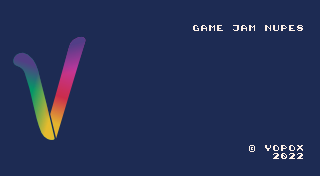
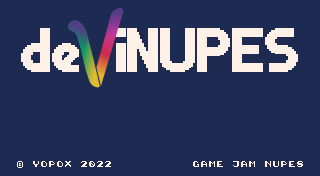
New title screen

diff --git a/core/src/main/java/com/yopox/screens/TitleScreen.java b/core/src/main/java/com/yopox/screens/TitleScreen.java
@@ -14,8 +14,8 @@ public class TitleScreen extends AbstractScreen {
     private static final Texture background = new Texture("title.png");
 
     private Vector<Letter> option1 = Letter.listOf("Partie classique", Colors.DEFAULT_FG, Colors.DEFAULT_BG);
-    private Vector<Letter> option2 = Letter.listOf("Contre la montre (5 min)", Colors.DEFAULT_FG, Colors.DEFAULT_BG);
-    private Vector<Letter> option3 = Letter.listOf("Contre la montre (1 min)", Colors.DEFAULT_FG, Colors.DEFAULT_BG);
+    private Vector<Letter> option2 = Letter.listOf("5 minutes chrono", Colors.DEFAULT_FG, Colors.DEFAULT_BG);
+    private Vector<Letter> option3 = Letter.listOf("1 minute  chrono", Colors.DEFAULT_FG, Colors.DEFAULT_BG);
 
     private Vector<Letter> arrow = Letter.listOf(">", Colors.DEFAULT_FG, Colors.DEFAULT_BG);
     private final int N_OPTIONS = 3;
@@ -30,10 +30,10 @@ public class TitleScreen extends AbstractScreen {
         super.render(delta);
         myBatch.begin();
         myBatch.draw(background, 0f, 0f);
-        Text.draw(option1, Util.TILE * 14, Util.TILE * 12, false, myBatch);
-        Text.draw(option2, Util.TILE * 14, Util.TILE * 10, false, myBatch);
-        Text.draw(option3, Util.TILE * 14, Util.TILE * 8, false, myBatch);
-        Text.draw(arrow, Util.TILE * 12, Util.TILE * 12 - selected * 2 * Util.TILE, false, myBatch);
+        Text.draw(option1, Util.TILE * 12, Util.TILE * 8, false, myBatch);
+        Text.draw(option2, Util.TILE * 12, Util.TILE * 6, false, myBatch);
+        Text.draw(option3, Util.TILE * 12, Util.TILE * 4, false, myBatch);
+        Text.draw(arrow, Util.TILE * 9, Util.TILE * 8 - selected * 2 * Util.TILE, false, myBatch);
         myBatch.end();
     }
 

diff --git a/core/src/main/java/com/yopox/ui/GUI.java b/core/src/main/java/com/yopox/ui/GUI.java
@@ -5,7 +5,9 @@ import com.badlogic.gdx.graphics.g2d.SpriteBatch;
 import com.yopox.Util;
 
 import java.util.Date;
+import java.util.Optional;
 import java.util.Vector;
+import java.util.stream.Stream;
 
 public class GUI {
     private static Vector<Letter> alphabet = Letter.listOf("abcdefghijklmnopqrstuvwxyz", Colors.WHITE, Colors.BLUE);
@@ -22,12 +24,16 @@ public class GUI {
     }
 
     public static void update(char c, Color color) {
-        if (c >= 'a' && c <= 'z') {
-            final Letter letter = alphabet.stream().filter(l -> l.getCharacter() == c).findFirst().get();
-            if (color != Colors.ORANGE || letter.getFg() != Colors.GREEN) letter.setFg(color);
-        } else if (c >= '0' && c <= '9') {
-            final Letter letter = numbers.stream().filter(l -> l.getCharacter() == c).findFirst().get();
-            if (color != Colors.ORANGE || letter.getFg() != Colors.GREEN) letter.setFg(color);
+        Stream<Letter> stream = null;
+        if (c >= 'a' && c <= 'z') stream = alphabet.stream();
+        else if (c >= '0' && c <= '9') stream = numbers.stream();
+
+        if (stream != null) {
+            final Optional<Letter> optional = stream.filter(l -> l.getCharacter() == c).findFirst();
+            if (optional.isPresent()) {
+                final Letter letter = optional.get();
+                if (color != Colors.ORANGE || letter.getFg() != Colors.GREEN) letter.setFg(color);
+            }
         }
     }
 
